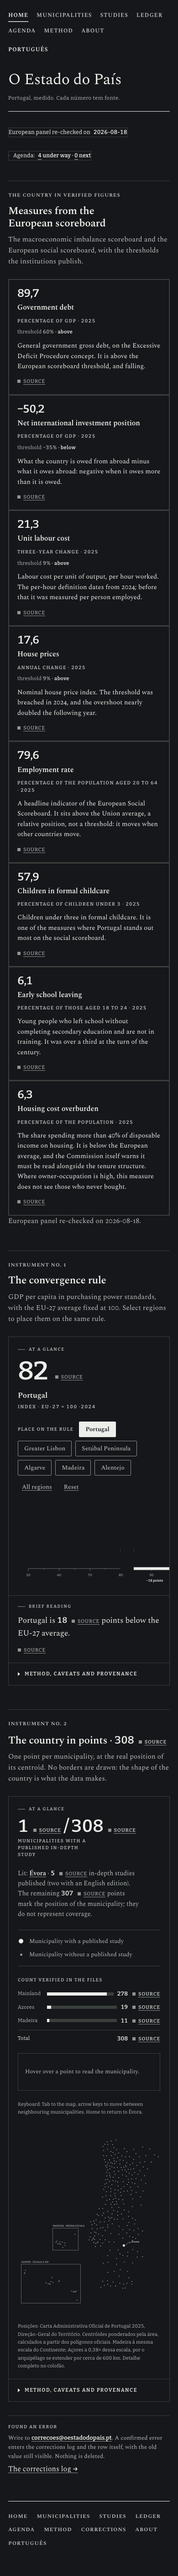
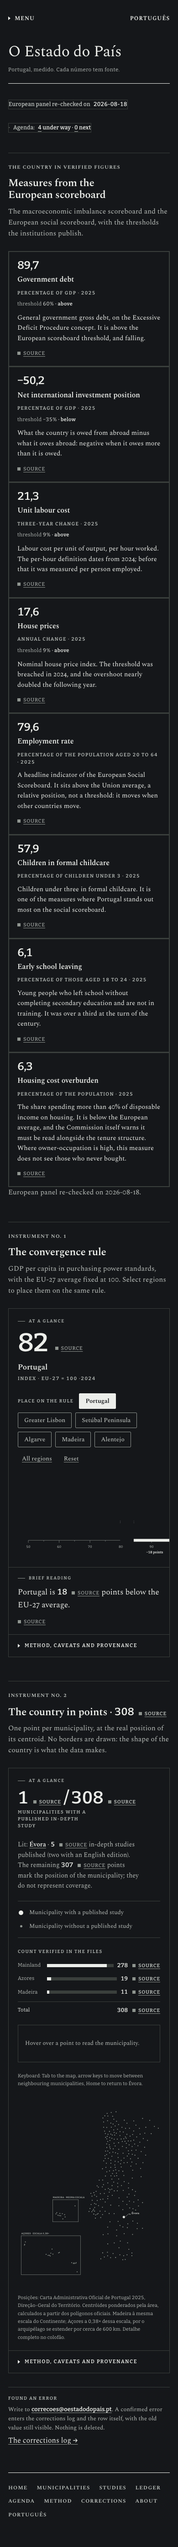
cabeçalho: a navegação colapsa atrás de «Menu» abaixo de 640px, sem JavaScript
Pedido pela cadeira na revisão da etapa 1, a partir da medição da 1d: a 320 e a
390 a navegação primária quebrava em várias linhas e empurrava o primeiro valor
medido para fora do primeiro ecrã. A prancha móvel («cabeça compacta») resolve-o
com «Menu» ao lado da ligação de idioma, e é isso que entra.

O mecanismo é nativo e sem JavaScript, e a lista fica FORA do `<details>` por
uma razão medida. O conteúdo de um `<details>` fechado não se volta a mostrar
por folha de estilos de maneira portátil: medi três candidatos num Chromium 148,
com um `<details>` fechado sem regra como controlo negativo, e só
`::details-content { content-visibility: visible }` torna a ligação alcançável
por `elementFromPoint`. Essa regra é recente e não existe em todos os motores,
e se a lista vivesse lá dentro ficaria escondida também a 1280. Com a lista
irmã, o que governa é `.nav-menu[open] ~ .nav-principal`, que é um seletor de
atributo e um combinador de irmãos.

O comando mostra «Menu» e chama-se «Menu · Navegação principal»: o `aria-label`
sozinho substituiria o nome visível pelo invisível e quebrava o «label in name»
(WCAG 2.5.3). Uma chave nova, `nav.menu`, nas duas edições, com a razão da
identidade aceite escrita em `CHAVES-EN.md`.

Medido, cabeçalho fechado e topo do `<main>`, que aqui é o mesmo número:
primeira página 411,7 → 316,1px a 320 e 377,3 → 316,1px a 390; página de linha
362,3 → 266,7px a 320 e 327,9 → 266,7px a 390. A barra passa de 157,6px (320) e
[…]

diff --git a/src/styles/site.css b/src/styles/site.css
@@ -244,6 +244,86 @@ section {
 .nav .lang {
   color: var(--ink);
 }
+/* ------------------------------------------------- o «Menu» do telemóvel
+
+   Existe porque a medição da etapa 1d o pediu: a 320 e a 390 os sete itens da
+   navegação ocupavam três linhas e 157,6px de barra, e o primeiro valor medido
+   da página caía para fora do primeiro ecrã. A prancha móvel
+   (`design/especime-v3/maquetas/V3Movel.dc.html`, «cabeça compacta») resolve-o
+   com «Menu» ao lado da ligação de idioma.
+
+   Sem JavaScript: o estado vive no `[open]` de um `<details>` nativo, e a lista
+   é IRMÃ dele e não sua filha, pela razão medida que está escrita no
+   `Masthead.astro`. Acima de 640px o comando desaparece e a lista renderiza-se
+   como sempre, sem depender de nada que o navegador tenha de saber esconder.
+
+   O rodapé não colapsa: é a navegação inteira, sempre à vista, e é ele a porta
+   ao Sobre que o portão conta em todas as páginas. */
+.nav-menu {
+  display: none;
+}
+.nav-menu > summary {
+  list-style: none;
+  cursor: pointer;
+  display: flex;
+  align-items: center;
+  gap: 9px;
+  /* 44px de alvo, e aqui pode ser altura a sério: o comando é um bloco na
+     barra e não uma unidade no meio de uma frase, e por isso crescer não
+     empurra linha nenhuma. */
+  min-height: 44px;
+  min-width: 44px;
+  padding-right: 4px;
+  font-family: var(--f-versal);
+  font-size: 14px;
+  font-weight: 600;
+  letter-spacing: 0.05em;
+  text-transform: lowercase;
+  color: var(--ink);
+}
+.nav-menu > summary::-webkit-details-marker {
+  display: none;
+}
+.nav-menu > summary::before {
+  content: '';
+  width: 0;
+  height: 0;
+  flex: none;
+  border-left: 5px solid currentColor;
+  border-top: 4px solid transparent;
+  border-bottom: 4px solid transparent;
+  transition: transform 0.16s ease;
+  transform-origin: 30% 50%;
+}
+.nav-menu[open] > summary::before {
+  transform: rotate(90deg);
+}
+
+@media (max-width: 639.98px) {
+  .nav-menu {
+    display: block;
+    order: 1;
+  }
+  .nav-idioma {
+    order: 2;
+  }
+  .nav-principal {
+    display: none;
+    order: 3;
+    flex-basis: 100%;
+    gap: 0;
+    flex-direction: column;
+    align-items: stretch;
+    padding-top: 4px;
+  }
+  .nav-menu[open] ~ .nav-principal {
+    display: flex;
+  }
+  .nav-principal a {
+    border-top: 1px solid var(--rule);
+  }
+}
+
 /* O ALVO DE TOQUE DA NAVEGAÇÃO.
 
    O selo já sobe para 44px num apontador grosseiro (§1.43), que é o alvo que

diff --git a/design/especime-v3/notas/stage-1.md b/design/especime-v3/notas/stage-1.md
@@ -18,11 +18,14 @@ comando que está escrito ao lado deles.*
 | `a21cc2a` | 1a | `IDENTIDADE`, `DECISIONS` §1.50: a letra passa a ser alojada aqui, e a cor passa a ser o par de estados |
 | `7643251` | 1b | tipos: as três famílias alojadas aqui, convertidas sem perda, e a régua que as mede |
 | `7650aed` | 1c | tokens: a paleta v3, o par de estados, e a folha partilhada sem os dois acentos da v2 |
-| *(o commit que contém esta nota)* | 1d | cabeçalho, rodapé, selo: a navegação em versaletes, o selo à altura da linha, e o alvo medido |
+| `a2fa798` | 1d | cabeçalho, rodapé, selo: a navegação em versaletes, o selo à altura da linha, e o alvo medido |
+| *(o commit que contém esta nota)* | 1e | cabeçalho: a navegação colapsa atrás de «Menu» abaixo de 640px, sem JavaScript |
 
-*(O commit da 1d não se nomeia a si próprio: um ficheiro não pode trazer no nome
-nem no corpo o resumo do commit que o contém. É o quarto commit do ramo a partir
-de `2adf2cd`, e `git log --oneline` di-lo em uma linha.)*
+*(O commit da 1e não se nomeia a si próprio: um ficheiro não pode trazer no
+corpo o resumo do commit que o contém. É o quinto commit do ramo a partir de
+`2adf2cd`, e `git log --oneline` di-lo em uma linha. A subetapa 1e foi pedida
+pela cadeira na revisão da etapa 1, depois de as quatro primeiras estarem
+fechadas.)*
 
 ---
 
@@ -578,6 +581,126 @@ elas mostram é a letra, os tokens e a mobília.
 
 ---
 
+## 4b. Subetapa 1e · a navegação no telemóvel
+
+*Pedida pela cadeira na revisão da etapa 1, a partir da medição da 1d: a 320 e a
+390 a navegação primária quebrava em três linhas e empurrava o primeiro valor
+medido para fora do primeiro ecrã. A prancha móvel
+(`design/especime-v3/maquetas/V3Movel.dc.html`, «cabeça compacta») resolve-o com
+«Menu» ao lado da ligação de idioma, e é isso que entra. Só `Masthead.astro`,
+`site.css` e uma chave em `strings.mjs`.*
+
+### O mecanismo, e porque a lista fica FORA do `<details>`
+
+Nativo e sem JavaScript. O que não é óbvio, e que medi antes de escrever a
+regra: **o conteúdo de um `<details>` fechado não se volta a mostrar por folha
+de estilos de maneira portátil.** Escrevi três candidatos e medi-os num Chromium
+148, com um `<details>` fechado sem regra nenhuma como controlo negativo, e o
+teste que conta não é `getBoundingClientRect()` (que devolve caixa mesmo com o
+conteúdo escondido, e diria que os quatro funcionam) mas `elementFromPoint()`
+sobre a ligação lá dentro:
+
+| candidato | a ligação é alcançável? |
+| --- | --- |
+| controlo: `<details>` fechado, sem regra | **não** |
+| `details { display: contents }` + `summary { display: none }` | **não** |
+| `details > nav { display: flex !important }` | **não** |
+| `details::details-content { content-visibility: visible; display: contents }` | **sim** |
+
+Só o terceiro funciona, e `::details-content` é recente: `CSS.supports` diz que
+sim neste Chromium, e não existe em todos os motores. Se a lista vivesse dentro
+do `<details>`, num motor sem essa regra ficaria escondida **também a 1280**, ou
+seja o desktop inteiro sem navegação primária. Isso não se arrisca por uma
+elegância de marcação.
+
+Por isso o `<details>` leva só o `<summary>`, e a lista é **irmã** dele. O que
+governa é `.nav-menu[open] ~ .nav-principal`: um seletor de atributo e um
+combinador de irmãos, que existem em todos os motores há duas décadas. Acima de
+640px o comando é `display: none` e a lista renderiza-se como sempre, sem
+depender de nada que o navegador tenha de saber revelar. **Medido só em
+Chromium**, e digo-o: o Firefox e o Safari não estão nesta máquina; o que o
+desenho garante é que o caminho de 1280 não usa nenhuma regra recente.
+
+### O nome do comando
+
+O comando mostra **«Menu»** e chama-se **«Menu · Navegação principal»**
+(«Menu · Main navigation» na edição inglesa). A cadeira pediu o `aria-label` com
+`nav.rotuloPrincipal`; pô-lo sozinho substituiria o nome visível pelo invisível,
+e quem fala com a página pelo que lê nela pediria «Menu» a um comando que se
+chama outra coisa (WCAG 2.5.3, «label in name»). A composição cumpre as duas: a
+palavra visível é a primeira do nome, e a etiqueta da região vai lá. As duas
+metades são cadeias que já existem, e a única chave nova é `nav.menu`.
+
+A ligação de idioma fica à vista ao lado, como na prancha. A ligação de salto
+continua a ser o primeiro elemento do `<body>` (conferido: `skipPrimeiro=true`
+nas oito medições), e o `aria-current` da página actual continua a marcar um
+item (conferido: 1 na primeira página, 0 na página de linha, que não está na
+navegação). **O rodapé não colapsa**: é a navegação inteira, sempre à vista, e é
+ele a porta ao Sobre que o portão conta em todas as páginas.
+
+### As medições
+
+Cabeçalho **fechado**, e o topo do `<main>`, que aqui é o mesmo número porque o
+primeiro filho do `<main>` começa onde o `<main>` começa:
+
+| rota | largura | cabeçalho antes | cabeçalho depois | barra antes | barra depois | topo do `<main>` |
+| --- | --- | --- | --- | --- | --- | --- |
+| `/` | 320 | 411,7px | **316,1px** | 157,6px | **62px** | 411,7 → **316,1px** |
+| `/` | 390 | 377,3px | **316,1px** | 123,2px | **62px** | 377,3 → **316,1px** |
+| `/` | 1280 | 340,7px | **340,7px** | 48,4px | **48,4px** | 340,7 → **340,7px** |
+| `/livro-razao/divida-publica-2025` | 320 | 362,3px | **266,7px** | 157,6px | **62px** | 362,3 → **266,7px** |
+| `/livro-razao/divida-publica-2025` | 390 | 327,9px | **266,7px** | 123,2px | **62px** | 327,9 → **266,7px** |
+| `/livro-razao/divida-publica-2025` | 1280 | 246,3px | **246,3px** | 48,4px | **48,4px** | 246,3 → **246,3px** |
+
+O primeiro filho do `<main>` é `<section>` na primeira página e
+`div.linha-cabeca` na página de linha, e o seu topo é, nas doze medições, igual
+ao topo do `<main>`. **95,6px** recuperados a 320 e **61,2px** a 390, nas duas
+rotas.
+
+**Uma precisão sobre o número da 1d, para não o citar mal.** Os 157,6px e as
+três linhas da nota da 1d são a medição com **oito** itens, que é o pior caso da
+decisão (a). Com os sete que hoje se rendem, a barra media 157,6px a 320 e
+123,2px a 390. As duas passam a **62px**, e a barra deixa de depender do número
+de itens: é a altura do comando, e o oitavo item não lhe mexe.
+
+**Aberto**, o cabeçalho vai a 549,9px na primeira página e 500,5px na de linha
+(320 e 390 dão o mesmo), com a lista em coluna, um item por linha, separados por
+um fio. É o custo de abrir o menu, e é uma escolha do leitor.
+
+**O alvo do comando: 62 × 44 px**, a 320 e a 390, e alcançável no centro
+(`elementFromPoint` devolve o próprio `<summary>`). Aqui a altura pode ser
+altura a sério, ao contrário do selo: o comando é um bloco na barra e não uma
+unidade no meio de uma frase, e crescer não empurra linha nenhuma.
+
+**Nada mudou a 640px nem acima.** A 640 o comando já está escondido e a lista
+visível com as sete ligações. A 1280, as **16 capturas** da etapa 1 foram
+retiradas outra vez com o mesmo procedimento e comparadas por resumo SHA-256
+contra as que estavam guardadas: **as 16 são byte a byte iguais**. Que a
+comparação sabe distinguir prova-se com um positivo conhecido: a mesma
+comparação sobre `inicio-390-pt-claro.png`, que mudou, diz que difere.
+
+### A construção e as réguas
+
+```
+npm run build                      → verde
+npm run verify                     → os cinco portões verdes
+node scripts/medir-defeitos.mjs --json   → idêntico, campo a campo, ao da 1c
+node scripts/medir-contraste.mjs --json  → idêntico, campo a campo, ao da 1c
+```
+
+Nenhuma das duas réguas mexeu, e era o esperado: a 1e não tocou em `tokens.css`,
+não mudou uma ligação, um texto ou uma contagem, e o que acrescentou ao HTML é
+um comando de interface. `assertKeyParity()` continua a passar com a chave nova
+nas duas edições.
+
+**As capturas a 390 foram retiradas outra vez**, e não só as quatro que a
+cadeira pediu: a mudança é do cabeçalho e vale em todas as páginas, por isso as
+**16** capturas a 390 (as quatro rotas, duas edições, dois temas) estão
+refrescadas. Deixar `metodo-390-*` e `evora-390-*` com o cabeçalho antigo ao
+lado das novas seria uma mentira por omissão.
+
+---
+
 ## 5. O que fica dito, e não descoberto depois
 
 1. **Quatro literais `var(--yellow)` sobrevivem em três ficheiros que esta etapa
@@ -605,7 +728,10 @@ elas mostram é a letra, os tokens e a mobília.
 10. **A régua do contraste ganhou um resolvedor de `var()`** além do `PARES` que
     o brief me dá: sem ele a régua atirava sobre os tokens derivados. É uma
     régua, não um portão, e não entra em `npm run build`.
-11. **Nenhum portão novo**, e nenhuma extensão de portão. Esta etapa não mudou
+11. **A navegação móvel foi medida só em Chromium** (1e). O desenho evita de
+    propósito qualquer regra recente no caminho de 1280, e a razão está escrita
+    com a medição que a suporta; o Firefox e o Safari não estão nesta máquina.
+12. **Nenhum portão novo**, e nenhuma extensão de portão. Esta etapa não mudou
     uma linha de `gate-html.mjs`, `check-ledger.mjs` ou `check-dados.mjs`: as
     duas réguas novas (`medir-tipos.mjs`) e a alterada (`medir-contraste.mjs`)
     correm à mão e fora da construção. Não foi preciso plantar defeito nenhum
@@ -620,6 +746,8 @@ subagentes e sem delegação. Nenhuma parte desta etapa correu noutro modelo.
 **Contagem de fichas:** a única contagem que esta sessão me reporta é o
 orçamento que sobra, e não o que gastei. No fim da etapa 1d o contador dizia
 **cerca de 14,60 milhões de fichas por usar**, de um teto de 15 milhões, o que
-põe o gasto desta etapa na ordem das **400 mil fichas**, dentro da escala de 250
-a 350 mil que o brief estimou, mas acima dela. Não tenho um número exacto e não
-o invento: o que existe é este.
+põe o gasto das subetapas 1a a 1d na ordem das **400 mil fichas**, acima da
+escala de 250 a 350 mil que o brief estimou. No fim da 1e dizia **cerca de 14,57
+milhões**, ou seja **cerca de 30 mil fichas** para a subetapa pedida pela
+cadeira. Não tenho um número exacto e não o invento: o que existe é este, e é
+uma diferença de contadores e não uma medição.

diff --git a/design/especime-v3/CHAVES-EN.md b/design/especime-v3/CHAVES-EN.md
@@ -16,13 +16,14 @@
 ## Por etapa
 
 ### Etapa 1
-**Nenhuma chave nova, e é um resultado e não um esquecimento.** A etapa 1 mudou a letra, os tokens, o cabeçalho, o rodapé e o selo, e não escreveu uma palavra nova em nenhuma das duas edições. As chaves de que precisou já existiam todas:
+**Uma chave nova, e só uma.** As subetapas 1a a 1d mudaram a letra, os tokens, o cabeçalho, o rodapé e o selo sem escrever uma palavra nova em nenhuma das duas edições; a 1e acrescentou `nav.menu`, e mais nada. As outras chaves de que a etapa precisou já existiam todas:
 
 | chave | pt | en | onde foi usada |
 |---|---|---|---|
 | `nav.inicio` · `nav.municipios` · `nav.estudos` · `nav.livro` · `nav.agenda` · `nav.metodo` · `nav.sobre` | Início · Municípios · Estudos · Livro-razão · Agenda · Método · Sobre | Home · Municipalities · Studies · Ledger · Agenda · Method · About | a navegação do cabeçalho, agora rendida de uma lista de chaves de rota |
 | `nav.correcoes` | Correções | Corrections | **já existe**, e é o oitavo item do cabeçalho no dia em que a decisão (a) chegar. Nenhuma cadeia nova é precisa para essa decisão: só uma linha de `Masthead.astro` |
 | `prov.selo` | fonte | source | a palavra do selo, sem mudança |
+| **`nav.menu`** | **Menu** | **Menu** | **chave nova (subetapa 1e)**: o comando que abre a navegação no telemóvel. Identidade aceite, e a razão está na lista abaixo |
 
 Conferido: `assertKeyParity()` atira a cada `t()` e a construção está verde, o que quer dizer que as duas edições continuam com as mesmas chaves.
 
@@ -42,3 +43,5 @@ A ficha técnica pública da letra (a linha «A letra» do Método, plano §12) 
 
 ## Identidades aceites (PT = EN de propósito)
 Nomes próprios, códigos de série, identificadores de linha, «Eurostat», «INE», «DGAL», «IEFP», «CAOP», «UE-27», «O Estado do País». A régua da invariância imprime todas as chaves cujo valor é igual nas duas línguas; as que não estiverem nesta lista são erro.
+
+- **`nav.menu` = «Menu» nas duas edições** (etapa 1e). Não é português copiado do inglês nem inglês copiado do português: «menu» entrou no português pelo francês e é a palavra corrente em Portugal para esta coisa exacta, tanto no papel como no ecrã, e nenhuma alternativa portuguesa («opções», «secções», «navegação») diz o que este comando faz sem dizer outra coisa. Escreve-se igual e lê-se igual; o que muda entre as duas edições é o nome acessível do comando, que junta a palavra visível à etiqueta da região («Menu · Navegação principal» / «Menu · Main navigation»), e essa metade é diferente. Se a revisão de voz preferir outra palavra em português, é uma cadeia.
